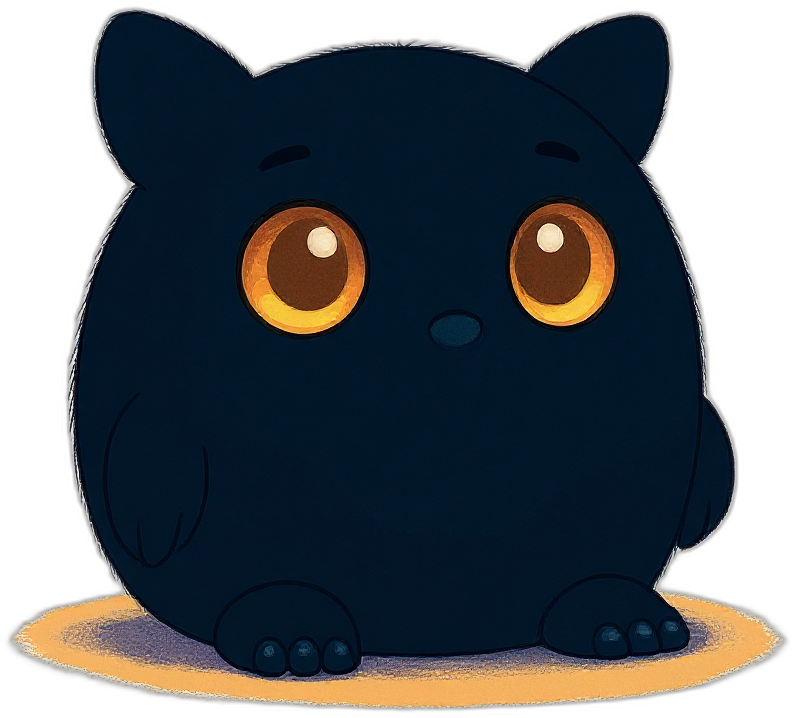
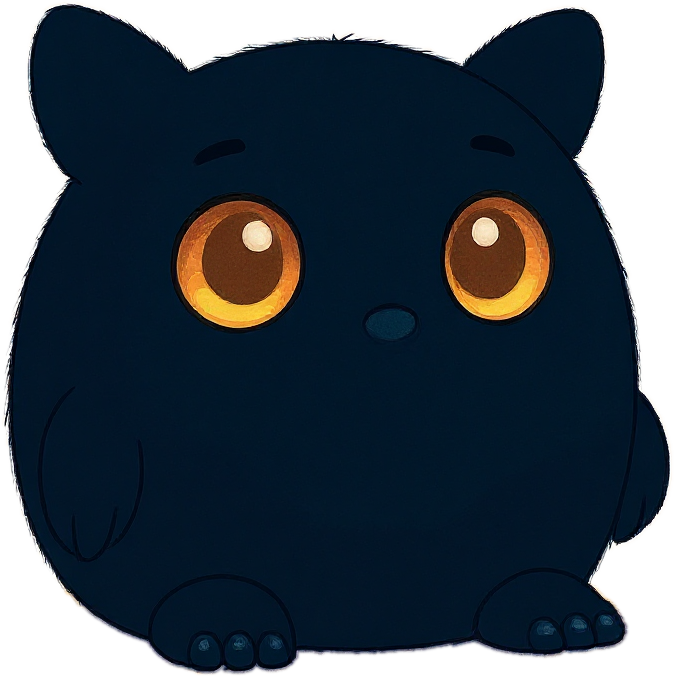
fix(room): strip the baked amber glow-pool from the Momo greeter
The source render (momo_ears_03) had a warm amber/purple contact-glow baked under
Momo — it read as intentional on its own but fought the room's cool cyan light
(Alex's call: "the glow doesn't fit the room"). The desk already draws its own
glow-pool + contact shadow, so the greeter should be bare Momo.

Brightness thresholds couldn't separate it (the pool fades into Momo's own dark-
body brightness), so isolated his body SILHOUETTE instead: dark-body mask -> fill
the eye holes -> largest connected component -> dilate to recover the fur edge ->
feather. The pool sits outside the silhouette, so it drops entirely. RGB from the
original locked render; verified composited on the dark wall color (clean, no pool).
?v=momo2 cache-bust.

Claude-Session: https://claude.ai/code/session_01XXMkJguYqcLiyPrm32eHCS

Changed region(s): [[0.0, 0.0, 0.997, 1.0], [0.2493, 0.2796, 0.4674, 0.497], [0.5297, 0.4349, 0.6231, 0.466]]

diff --git a/src/app/room/page.tsx b/src/app/room/page.tsx
@@ -924,7 +924,7 @@ function DeskWall({ wall, active, phase, onEnter }: { wall: Wall; active: boolea
         <div
           className="desk-breath absolute inset-0"
           style={{
-            backgroundImage: "url(/room/desk-greeter.png?v=momo)",
+            backgroundImage: "url(/room/desk-greeter.png?v=momo2)",
             backgroundSize: "contain",
             backgroundRepeat: "no-repeat",
             backgroundPosition: "center bottom",